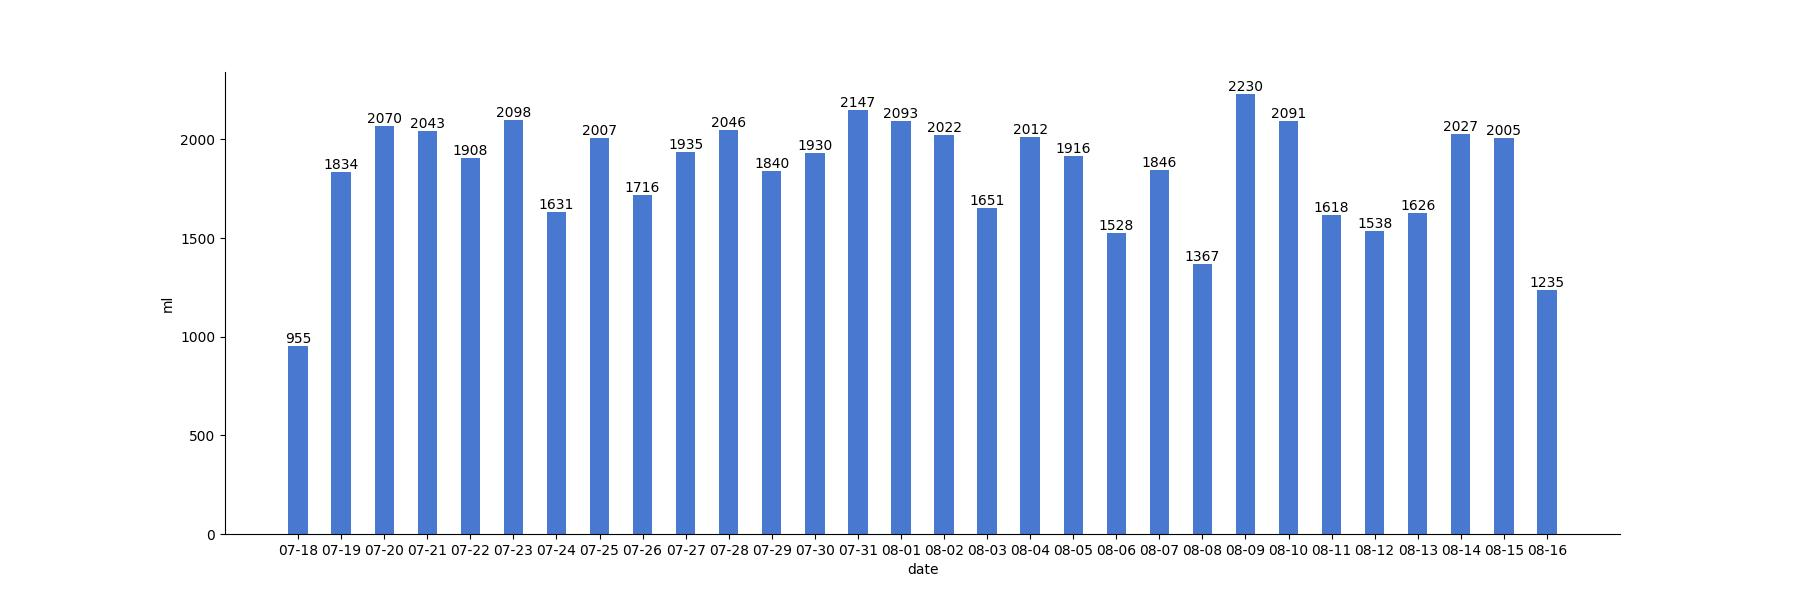
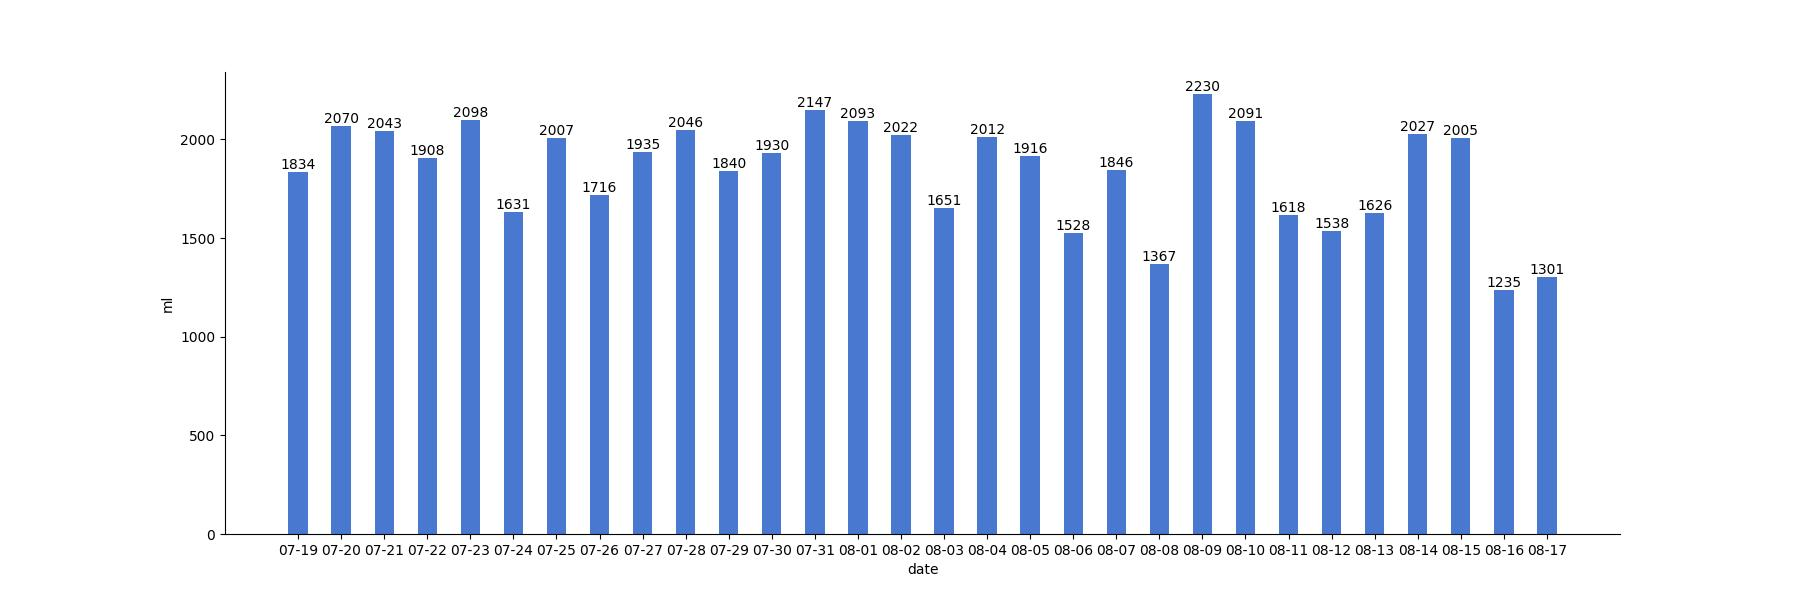
generated readme

diff --git a/README.md b/README.md
@@ -1,17 +1,3 @@
-# 今日饮水数据
-
-<div align=center>
-<img src="today.jpg" style="zoom: 100%;" />
-
-| 今日总饮水量 | 每小时平均饮水量 |
-| :----: | :----: |
-| 1238 | 95 |
-</div>
-
-| 日期 | 00:52:09 | 01:42:06 | 03:01:12 | 03:17:41 | 04:27:49 | 05:46:12 | 06:16:58 | 07:21:48 | 08:09:12 | 17:18:01 | 18:01:55 | 18:32:37 | 21:32:39 | 22:31:52 | 23:33:05 |
-| :----: | :----: | :----: | :----: | :----: | :----: | :----: | :----: | :----: | :----: | :----: | :----: | :----: | :----: | :----: | :----: |
-| 2022-08-17 | 200 | 75 | 99 | 62 | 80 | 85 | 66 | 92 | 55 | 55 | 54 | 64 | 124 | 69 | 58 |
-
 # 近30日饮水数据
 
 <div align=center>
@@ -19,8 +5,12 @@
 
 | 总饮水量 | 日均饮水量 |
 | :----: | :----: |
-| 54965 | 1832 |
+| 55311 | 1843 |
 </div>
+
+| 日期 | all | 00:52:09 | 01:42:06 | 03:01:12 | 03:17:41 | 04:27:49 | 05:46:12 | 06:16:58 | 07:21:48 | 08:09:12 | 17:18:01 | 18:01:55 | 18:32:37 | 21:32:39 | 22:31:52 | 23:33:05 | 23:58:35 |
+| :----: | :----: | :----: | :----: | :----: | :----: | :----: | :----: | :----: | :----: | :----: | :----: | :----: | :----: | :----: | :----: | :----: | :----: |
+| 2022-08-17 | 1301 | 200 | 75 | 99 | 62 | 80 | 85 | 66 | 92 | 55 | 55 | 54 | 64 | 124 | 69 | 58 | 63 |
 
 | 日期 | all | 00:56:08 | 01:30:13 | 02:24:06 | 03:41:05 | 04:43:08 | 05:31:23 | 06:29:07 | 06:59:56 | 09:07:54 | 16:50:57 | 19:22:37 | 22:30:59 |
 | :----: | :----: | :----: | :----: | :----: | :----: | :----: | :----: | :----: | :----: | :----: | :----: | :----: | :----: |
@@ -141,8 +131,4 @@
 | 日期 | all | 00:19:20 | 01:31:54 | 02:01:31 | 02:33:05 | 03:15:54 | 04:02:36 | 14:30:21 | 15:17:35 | 16:30:27 | 18:46:49 | 20:22:57 | 21:48:26 | 22:21:18 | 22:45:30 |
 | :----: | :----: | :----: | :----: | :----: | :----: | :----: | :----: | :----: | :----: | :----: | :----: | :----: | :----: | :----: | :----: |
 | 2022-07-18 | 955 | 46 | 51 | 78 | 55 | 67 | 50 | 76 | 66 | 32 | 66 | 104 | 95 | 62 | 107 |
-
-| 日期 | all | 00:07:29 | 00:36:21 | 01:13:06 | 01:45:46 | 02:15:21 | 03:01:37 | 03:39:53 | 12:32:03 | 13:34:08 | 14:02:53 | 14:34:21 | 15:04:32 | 15:34:47 | 16:09:13 | 17:10:45 | 18:04:26 | 19:22:00 | 19:53:51 | 20:48:52 | 20:52:21 | 21:39:27 | 22:23:10 | 22:57:00 | 23:19:29 | 23:49:38 |
-| :----: | :----: | :----: | :----: | :----: | :----: | :----: | :----: | :----: | :----: | :----: | :----: | :----: | :----: | :----: | :----: | :----: | :----: | :----: | :----: | :----: | :----: | :----: | :----: | :----: | :----: | :----: |
-| 2022-07-17 | 1675 | 63 | 36 | 77 | 89 | 51 | 21 | 26 | 200 | 68 | 61 | 33 | 72 | 55 | 96 | 97 | 28 | 58 | 57 | 29 | 84 | 52 | 89 | 62 | 73 | 98 |
 
